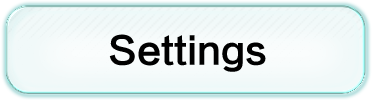
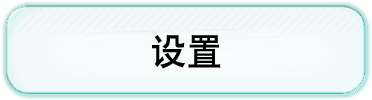
setting改中文 加入关于我们，可跳转 切换帐号 back按钮改中文

Changed region(s): [[0.2957, 0.33, 0.7392, 0.72]]

diff --git a/codes/setting.m b/codes/setting.m
@@ -20,7 +20,7 @@
         
         [self addBackground:@"et_bg.png"];
         
-        
+        /*
         [self addImageView:self
                      image:@"avatar_12.jpg"
                   position:CGPointMake(196, 116)];
@@ -28,7 +28,7 @@
         [self addImageView:self
                      image:@"profile_0.jpg"
                   position:CGPointMake(196, 323)];
-        
+        */
         
         [self addButton:self
                   image:@"qq_back.png"
@@ -44,20 +44,21 @@
         
         [pos addObject:[NSValue valueWithCGPoint:CGPointMake(510, 116)]];
         [pos addObject:[NSValue valueWithCGPoint:CGPointMake(510, 233)]];
-        [pos addObject:[NSValue valueWithCGPoint:CGPointMake(510, 349)]];
-        [pos addObject:[NSValue valueWithCGPoint:CGPointMake(510, 466)]];
-        
+       // [pos addObject:[NSValue valueWithCGPoint:CGPointMake(510, 349)]];
+       // [pos addObject:[NSValue valueWithCGPoint:CGPointMake(510, 466)]];
         
         
         for (int i=0; i<[pos count]; i++) {
             CGPoint p=[[pos objectAtIndex:i] CGPointValue];
             
-            [self addButton:self
-                      image:[NSString stringWithFormat:@"profile_bt%d.png",i]
-                   position:p
-                        tag:1000+i
-                     target:self
-                     action:@selector(onDown:)];
+            UIButton *bt=  [self addButton:self
+                                     image:[NSString stringWithFormat:@"setting_bt%d.png",i]
+                                  position:p
+                                       tag:1000+i
+                                    target:self
+                                    action:@selector(onDown:)];
+            
+            bt.center=CGPointMake(512, bt.center.y);
           
         }
         
@@ -72,20 +73,19 @@
 
 -(void)onDown:(UIButton*)sender
 {
+
     
     switch (sender.tag) {
         case 1000:
         {
-            profile *p=[[profile alloc] initWithFrame:CGRectMake(0, 0, 1024, 768)];
-            [p loadCurrentPage:0];
-            [self fadeInView:p duration:.5];
+            [[UIApplication sharedApplication] openURL:[NSURL URLWithString:@"http://gifted-center.com"]];
         }
             break;
         case 1001:
         {
-            v_paiming *p=[[v_paiming alloc] initWithFrame:CGRectMake(0, 0, 1024, 768)];
-            [p loadCurrentPage:0];
-            [self fadeInView:p duration:.5];
+            //切换帐号
+            
+            
         }
             break;
         case 1002:
